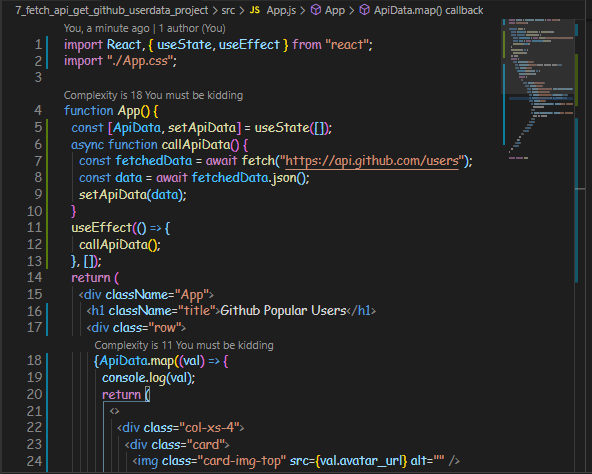
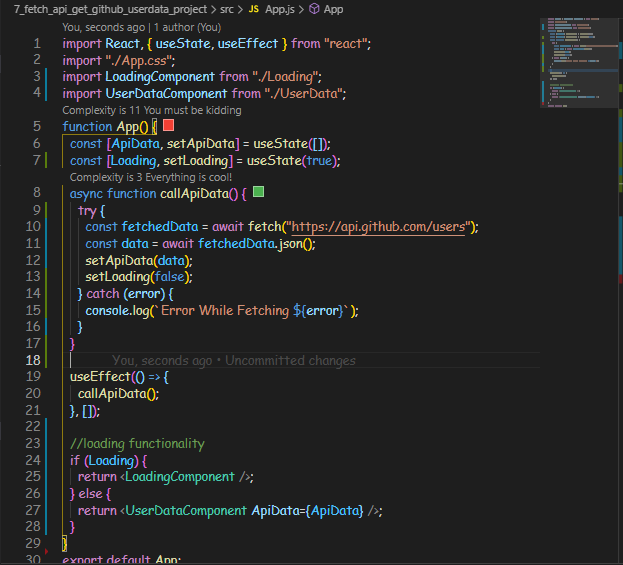
lecture -> 7 mini project which gets github porular users data and  added Loading functionality

Changed region(s): [[0.0304, 0.0, 0.8209, 1.0], [0.8514, 0.0295, 1.0, 0.5907], [0.8514, 0.2954, 0.8818, 0.3249]]

diff --git a/7_fetch_api_get_github_userdata_project/src/App.js b/7_fetch_api_get_github_userdata_project/src/App.js
@@ -1,47 +1,30 @@
 import React, { useState, useEffect } from "react";
 import "./App.css";
-
+import LoadingComponent from "./Loading";
+import UserDataComponent from "./UserData";
 function App() {
   const [ApiData, setApiData] = useState([]);
+  const [Loading, setLoading] = useState(true);
   async function callApiData() {
-    const fetchedData = await fetch("https://api.github.com/users");
-    const data = await fetchedData.json();
-    setApiData(data);
+    try {
+      const fetchedData = await fetch("https://api.github.com/users");
+      const data = await fetchedData.json();
+      setApiData(data);
+      setLoading(false);
+    } catch (error) {
+      console.log(`Error While Fetching ${error}`);
+    }
   }
+
   useEffect(() => {
     callApiData();
   }, []);
-  return (
-    <div className="App">
-      <h1 className="title">Github Popular Users</h1>
-      <div class="row">
-        {ApiData.map((val) => {
-          console.log(val);
-          return (
-            <>
-              <div class="col-xs-4">
-                <div class="card">
-                  <img class="card-img-top" src={val.avatar_url} alt="" />
-                  <div class="card-body">
-                    <h5 class="card-title">{val.login}</h5>
-                    <p class="card-text">ID : {val.id}</p>
-                    <div class="row">
-                      <a href={val.repos_url} class="btn btn-primary">
-                        Repositorys
-                      </a>
-                      <a href={val.html_url} class="btn btn-primary">
-                        Link To Github
-                      </a>
-                    </div>
-                  </div>
-                </div>
-              </div>
-            </>
-          );
-        })}
-      </div>
-    </div>
-  );
-}
 
+  //loading functionality
+  if (Loading) {
+    return <LoadingComponent />;
+  } else {
+    return <UserDataComponent ApiData={ApiData} />;
+  }
+}
 export default App;

diff --git a/7_fetch_api_get_github_userdata_project/src/UserData.jsx b/7_fetch_api_get_github_userdata_project/src/UserData.jsx
@@ -1,0 +1,36 @@
+import React from "react";
+
+function UserData({ ApiData }) {
+  return (
+    <div className="App">
+      <h1 className="title">Github Popular Users</h1>
+      <div class="row">
+        {ApiData.map((val) => {
+          return (
+            <>
+              <div class="col-xs-4">
+                <div class="card">
+                  <img class="card-img-top" src={val.avatar_url} alt="" />
+                  <div class="card-body">
+                    <h5 class="card-title">{val.login}</h5>
+                    <p class="card-text">ID : {val.id}</p>
+                    <div class="row">
+                      <a href={val.repos_url} class="btn btn-primary">
+                        Repositorys
+                      </a>
+                      <a href={val.html_url} class="btn btn-primary">
+                        Link To Github
+                      </a>
+                    </div>
+                  </div>
+                </div>
+              </div>
+            </>
+          );
+        })}
+      </div>
+    </div>
+  );
+}
+
+export default UserData;

diff --git a/7_fetch_api_get_github_userdata_project/src/App.css b/7_fetch_api_get_github_userdata_project/src/App.css
@@ -53,3 +53,16 @@ a {
   margin: 2px;
   font-weight: 500;
 }
+.Loading {
+  display: flex;
+  flex-direction: column;
+  justify-content: center;
+  align-items: center;
+  height: 100vh;
+  width: 100vw;
+}
+.Loading h1 {
+  font-size: 10rem;
+  font-family: "Happy Monkey", cursive;
+  padding: 20px;
+}

diff --git a/7_fetch_api_get_github_userdata_project/src/Loading.jsx b/7_fetch_api_get_github_userdata_project/src/Loading.jsx
@@ -1,0 +1,11 @@
+import React from "react";
+
+function Loading() {
+  return (
+    <div className="Loading">
+      <h1>Loading...</h1>
+    </div>
+  );
+}
+
+export default Loading;
